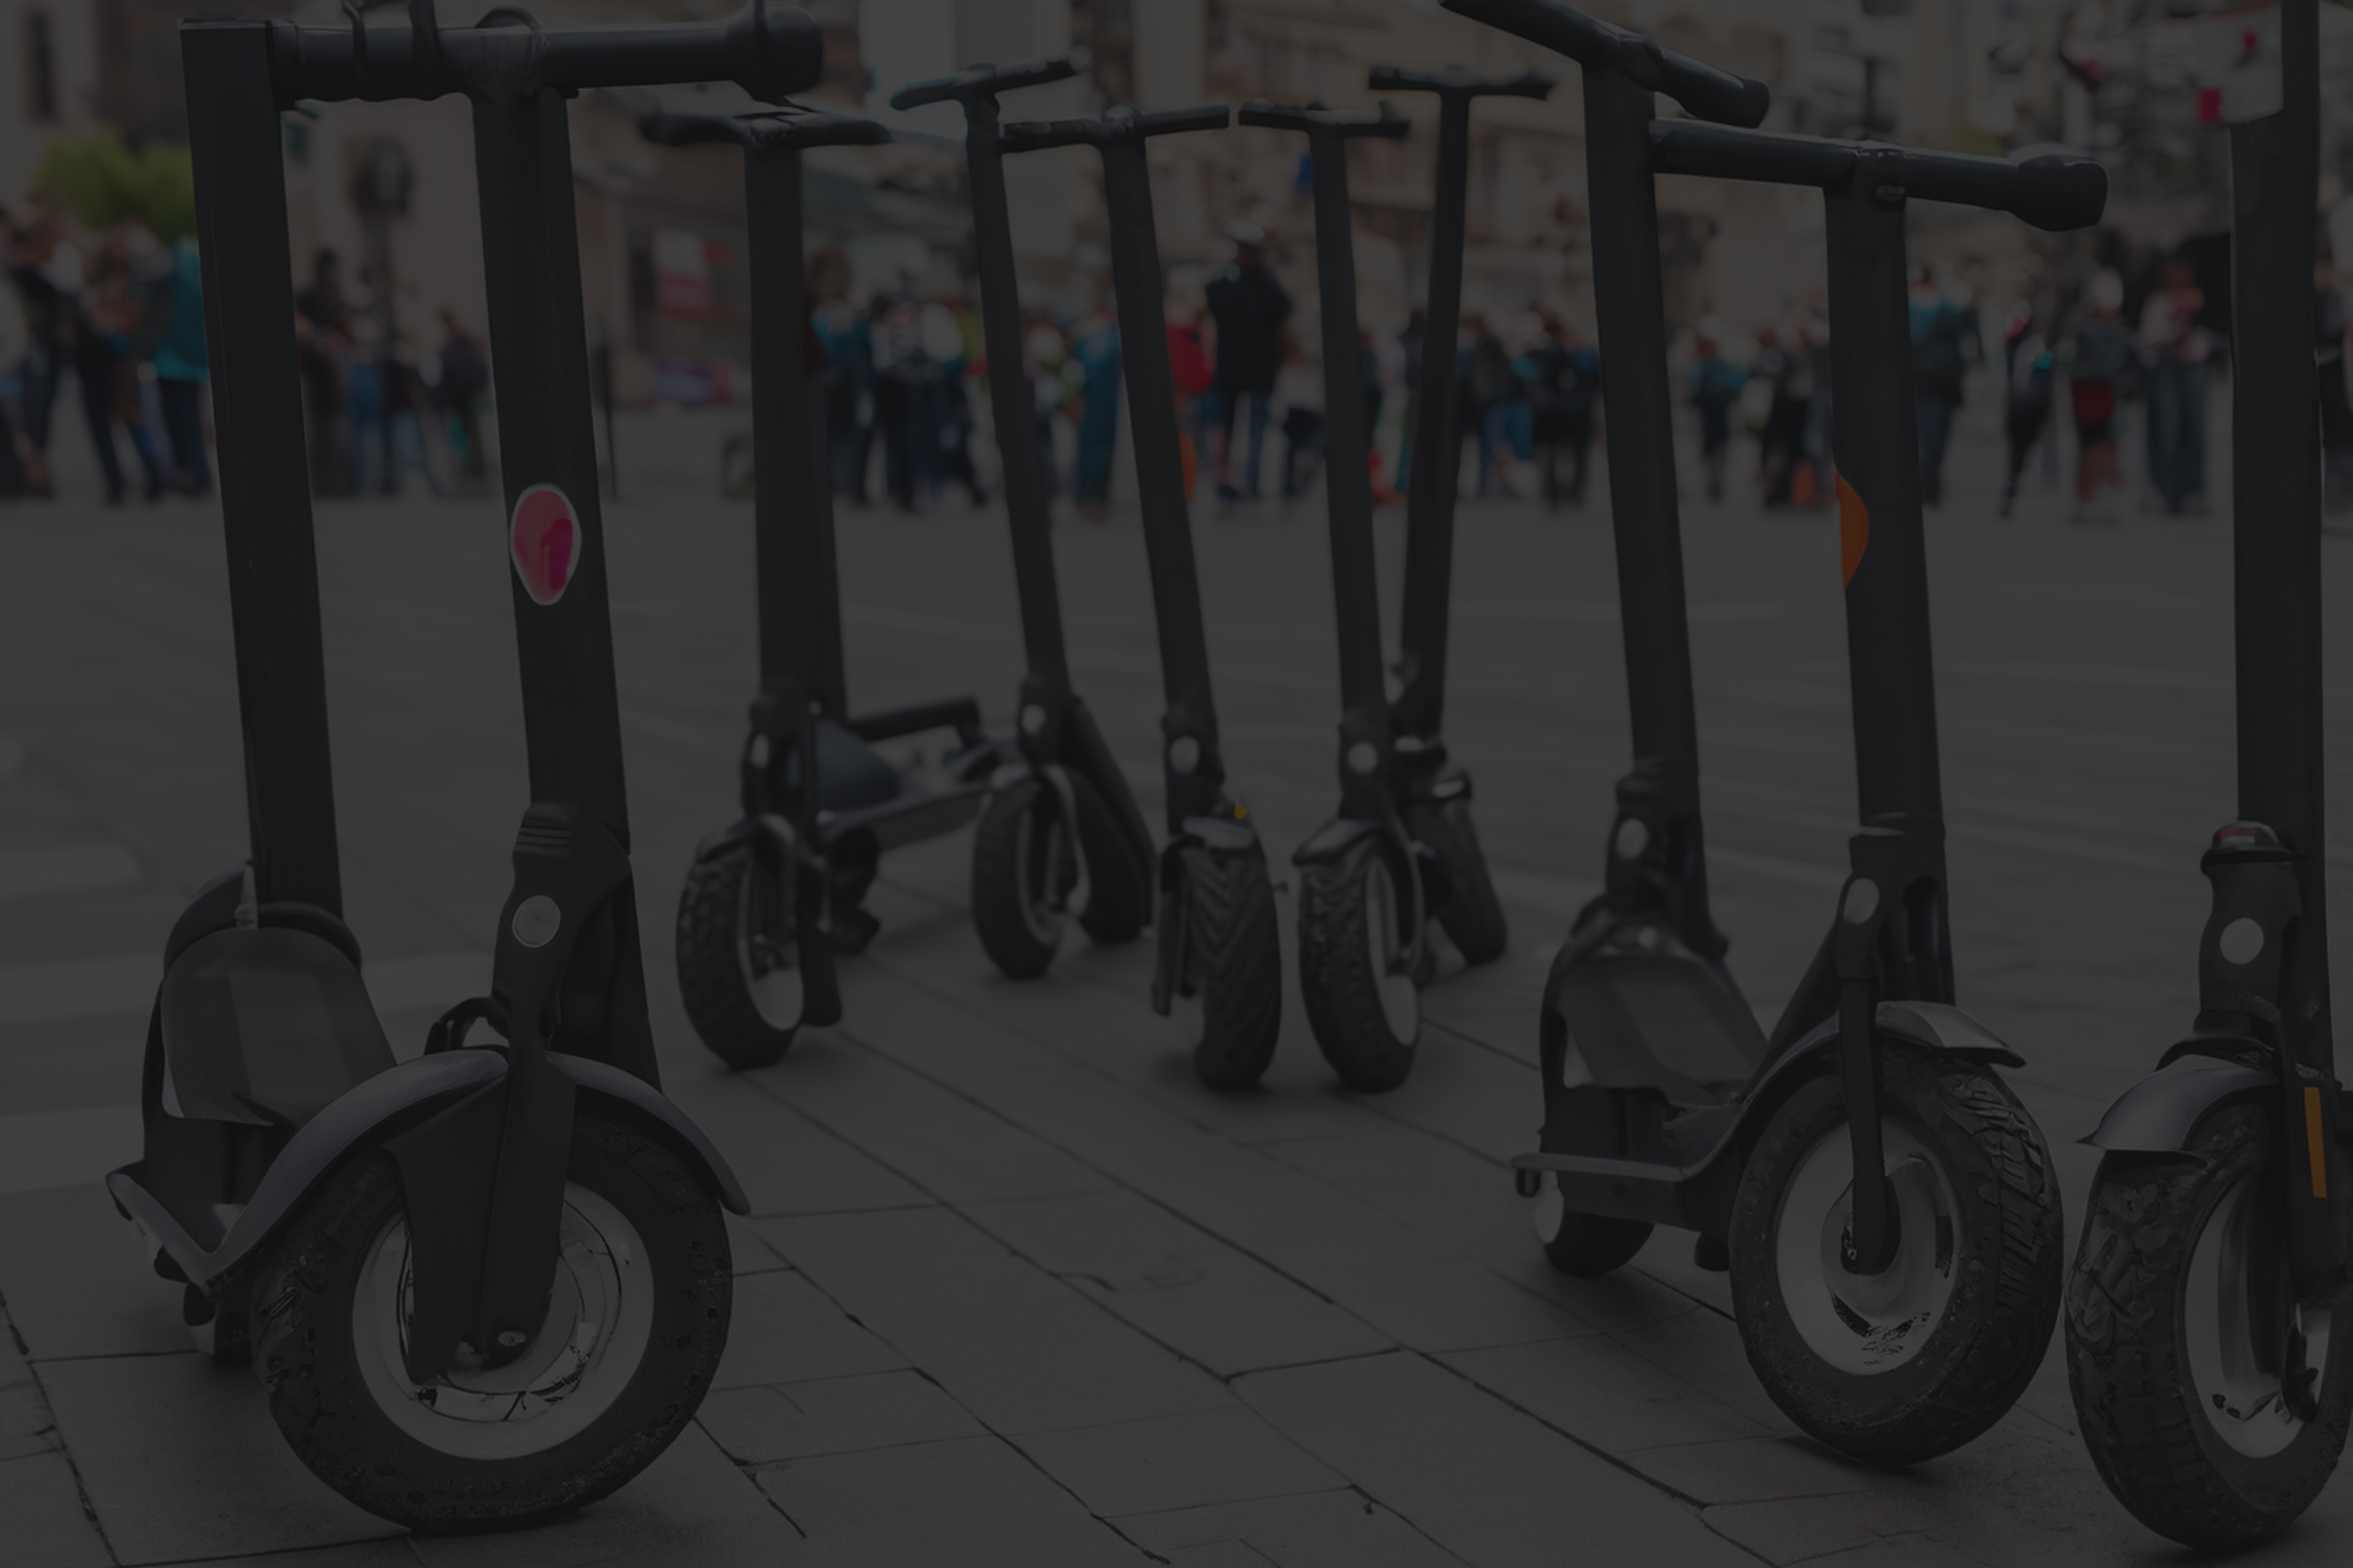
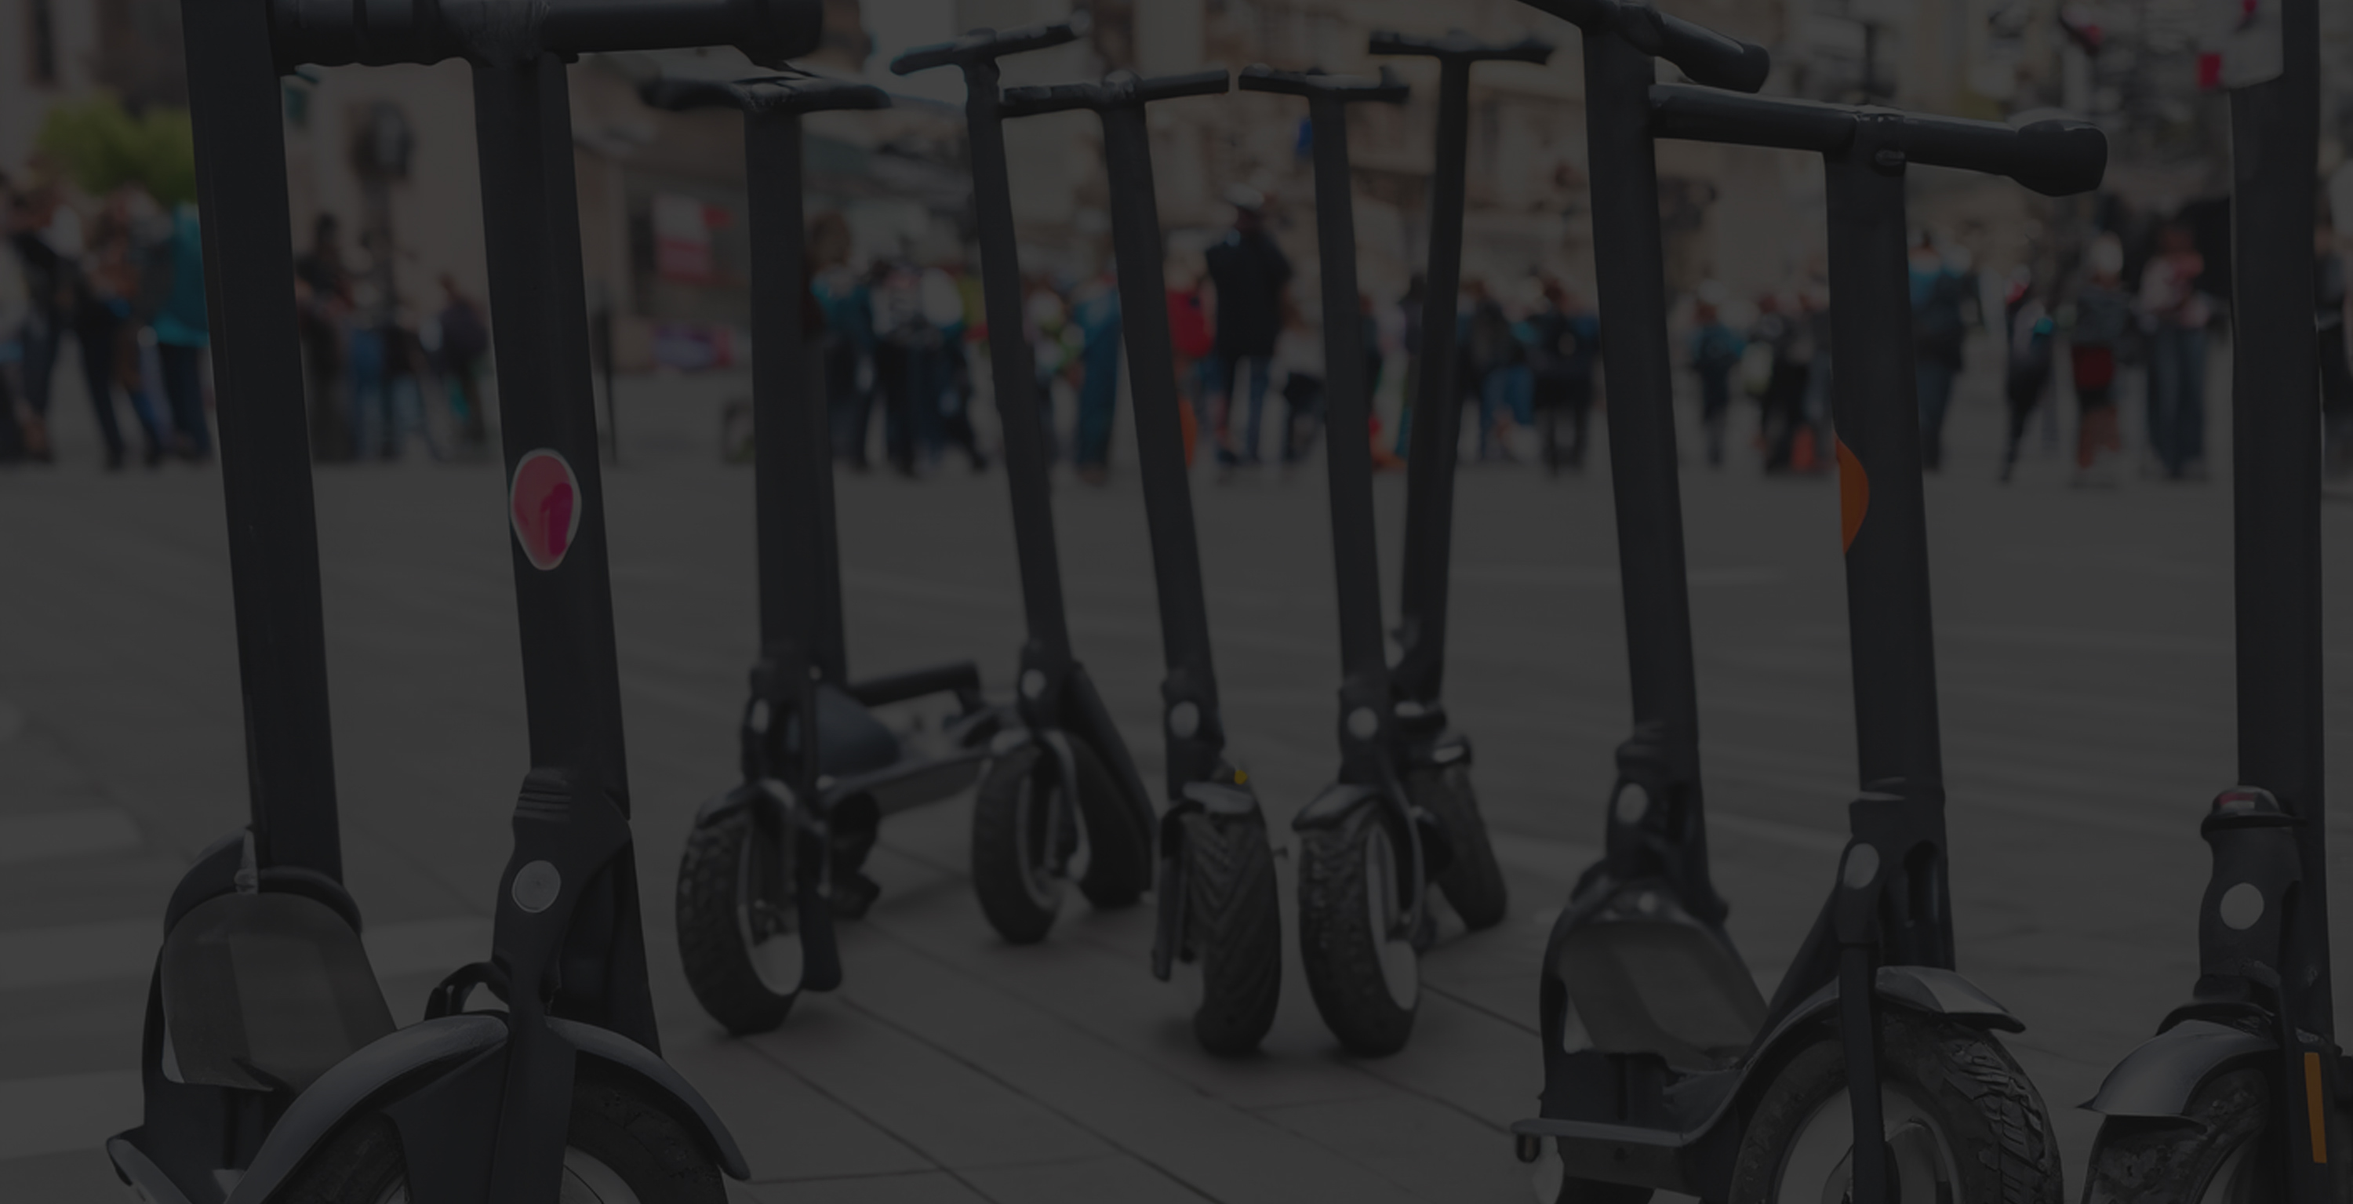
start html

diff --git a/style.css b/style.css
@@ -3,11 +3,66 @@
     padding: 0 0;
     box-sizing: border-box;
 }
+
+img {
+    max-width: 100%;
+}
+
+.logo {
+    max-width: 300px;
+}
+
+h1 {
+    font-size: 3rem;
+    margin-bottom: 1rem;
+    font-family: "industry", sans-serif;
+    font-weight: 800;
+    font-style: italic;
+    text-transform: uppercase;
+}
+
+h2 {
+    font-size: 2rem;
+    margin-bottom: 1rem;
+    font-family: "industry", sans-serif;
+    font-weight: 700;
+    font-style: italic;
+    text-transform: uppercase;
+}
+
+p {
+    font-size: 1.4rem;
+    font-family: "industry", sans-serif;
+    font-weight: 400;
+    font-style: normal; 
+}
+
+.image-container {
+    position: relative;
+    display: inline-block; /* oder block, abhängig von Ihren Bedürfnissen */
+  }
+  
+  .image-container img {
+    display: block; /* Entfernt den Standardabstand unter dem Bild */
+    width: 100%; /* Stellen Sie sicher, dass das Bild den Container ausfüllt */
+    height: auto;
+  }
+  
+  .logo {
+    position: absolute;
+    top: 100px; /* Abstand von oben, anpassbar */
+    left: 100px; /* Abstand von links, anpassbar */
+    width: 300px; /* Breite des Logos */
+    height: auto; /* Erhalt des Seitenverhältnisses */
+  }
+
+
 body {
-    background-color: rgb(58, 58, 145);
+    background-color: rgb(255, 255, 255);
     display: flex;
     align-items: center;
     justify-content: center;
+
 }
 
 #anzeige {

diff --git a/index-to.html b/index-to.html
@@ -9,10 +9,12 @@
 </head>
 <body>
     <section class="header">
-        <img src=""
-    <h1>Finde einen Scooter in deiner Nähe</h1> <br>
-    <input type="text" id="suche" placeholder="Standort eingeben"/>
-    <div id="anzeige"></div>
+       <div class="image-container">
+         <img src="img/header-Bild.jpg" alt="Sammlung von E-Scooter in der Stadt" class="header-Bild">
+        <img src="img/logo.svg" alt="Logo Find your E-Scooter" class="logo">
+    </div>
+    <h1>Entdecke die Stadt auf zwei Rädern</h1>
+    <p>Hier kommt eine kurze Beschreibung um was es auf der Website gehen wird.</p>
     </section> 
 <script src="script.js" type="module"></script>   
 </body>
